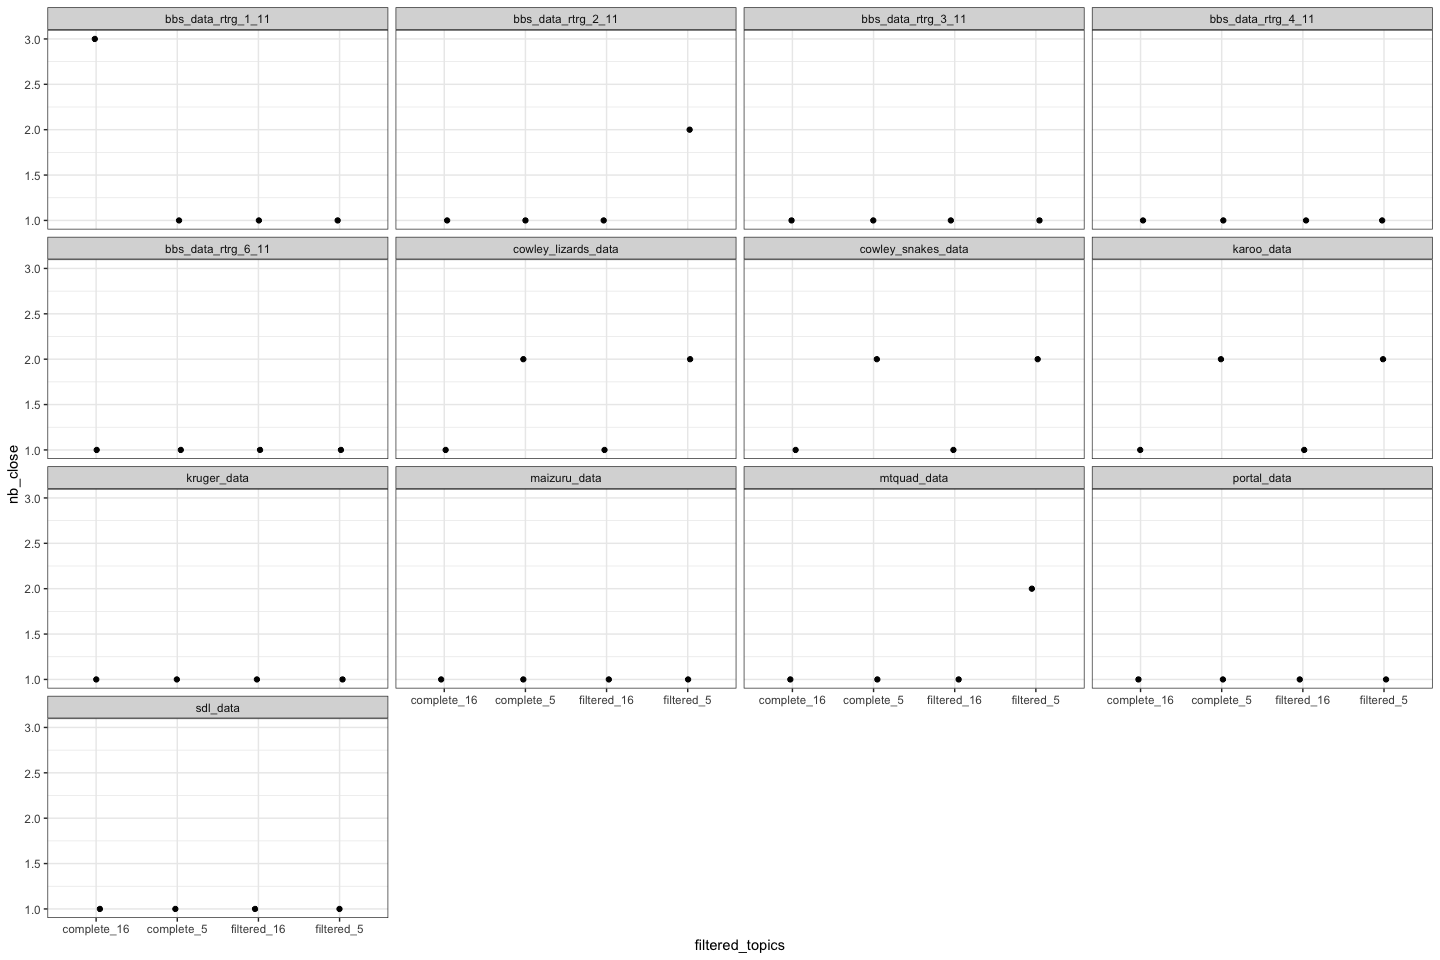
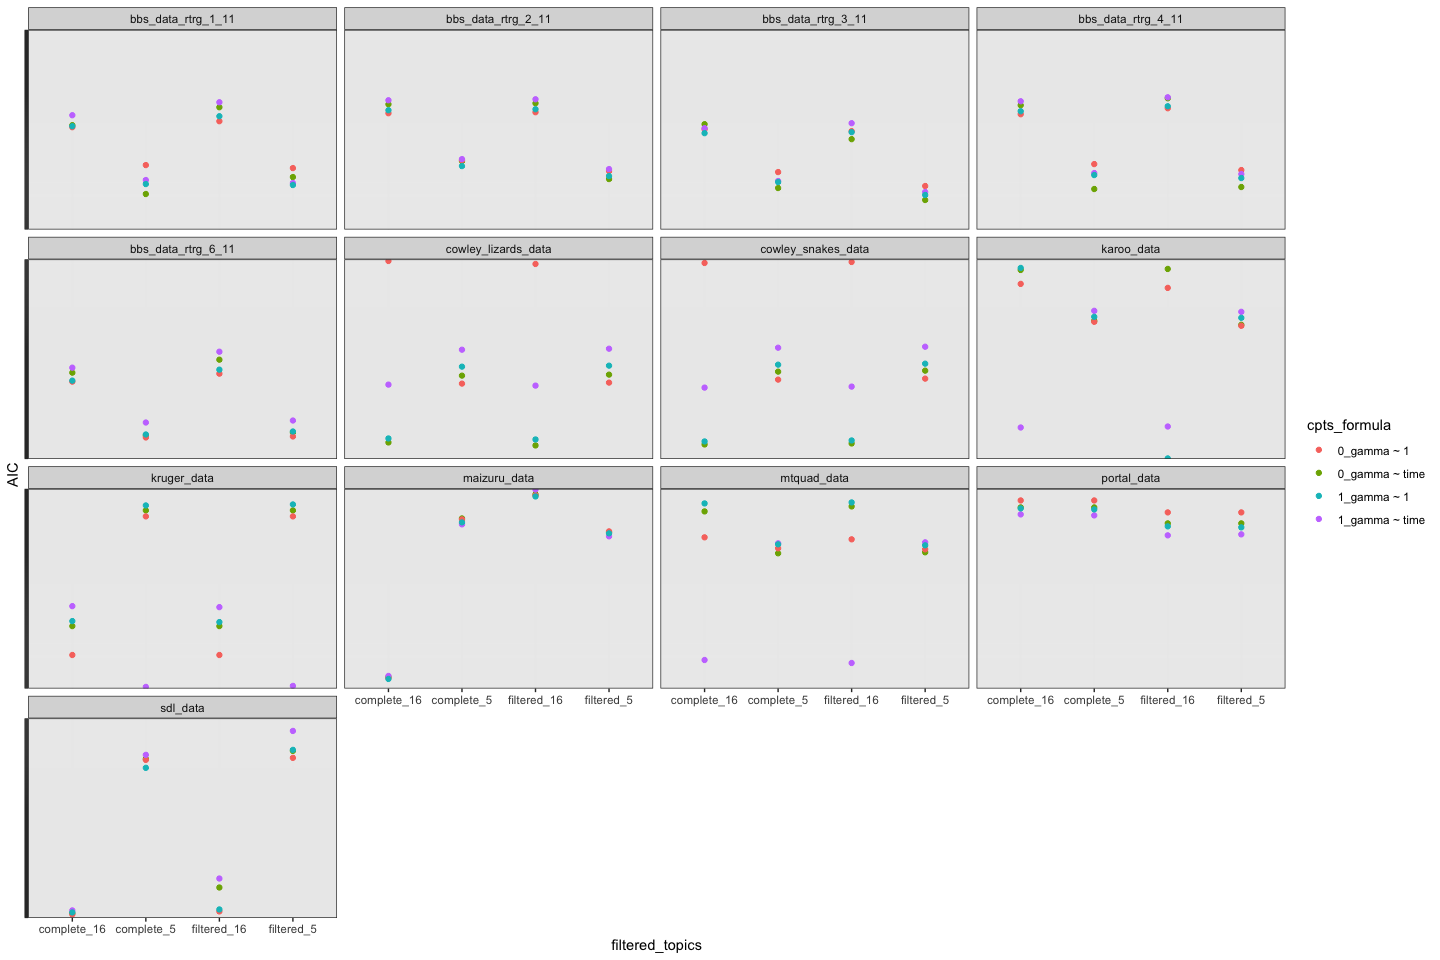
include aic plot

diff --git a/analysis/reports/ts_report.md b/analysis/reports/ts_report.md
@@ -1169,18 +1169,23 @@ nb_close_summary <- ts_models_summary %>%
     dplyr::ungroup()
 
 library(ggplot2)
-# 
-# ts_aic_plot <- ggplot(data = ts_models_summary, aes(x = filtered_topics,
-#                                                     y = AIC,
-#                                                     color = cpts_formula)) +
-#     geom_point() +
-#     facet_wrap(facets = data_name ~ .) +
-#     ylab("AIC") +
-#     scale_y_discrete(labels = NULL) +
-#     theme_bw()
-# 
-# ts_aic_plot
 
+ts_aic_plot <- ggplot(data = ts_models_summary, aes(x = filtered_topics,
+                                                    y = AIC,
+                                                    color = cpts_formula)) +
+    geom_point() +
+    ylab("AIC") +
+    scale_y_discrete(labels = NULL) +
+    theme_bw() +
+    facet_wrap(facets = data_name ~ .)
+
+
+ts_aic_plot
+```
+
+![](ts_report_files/figure-markdown_github/detailed%20ts%20model%20results-1.png)
+
+``` r
 nb_close_plot <- ggplot(data = nb_close_summary, aes(x = filtered_topics,
                                                      y = nb_close)) +
     geom_jitter(height = 0, width = .05) +
@@ -1190,4 +1195,4 @@ nb_close_plot <- ggplot(data = nb_close_summary, aes(x = filtered_topics,
 nb_close_plot
 ```
 
-![](ts_report_files/figure-markdown_github/detailed%20ts%20model%20results-1.png)
+![](ts_report_files/figure-markdown_github/detailed%20ts%20model%20results-2.png)
